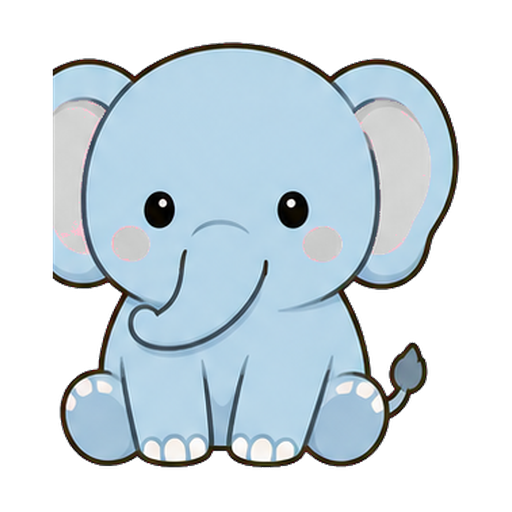
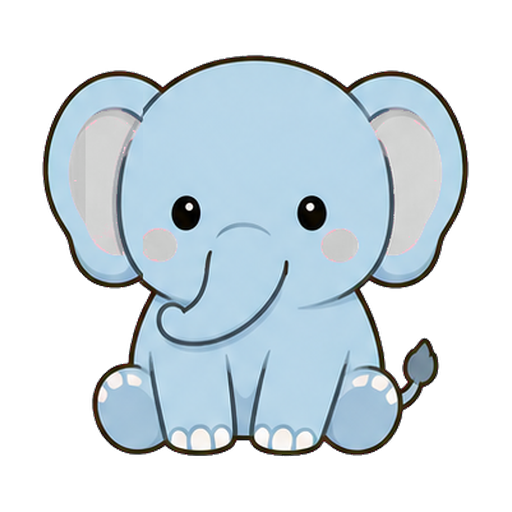
fix: rebuild the elephant's missing ear, and balance the relations layout
The elephant's left ear was cut off in the source art itself — its silhouette
ran dead straight down x=355 for every row of the ear band while the right ear
followed a curve. Padding could never fix that; the drawing was missing. The
body's true axis measured x=488 from the intact lower rows, so the right ear
mirrored across it restores the left. Silhouette distances now match to within
a pixel on every row.

Relations was left-heavy for three reasons, all fixed: the toolbar was not
width-capped like the list beneath it so the two disagreed about the page edge;
the filter and count stacked against the left with the right half empty; and
the card head bunched word and part-of-speech together. Each of those now
occupies its full row, and the synonym and antonym groups carry their counts.

Changed region(s): [[0.0625, 0.0625, 0.9375, 0.9375], [0.5625, 0.5938, 0.5938, 0.625]]

diff --git a/src/screens/RelationsScreen.tsx b/src/screens/RelationsScreen.tsx
@@ -19,6 +19,28 @@ function Chip({ word, tone }: { word: string; tone: 'syn' | 'ant' }) {
   );
 }
 
+// The label sits at one end of its row and the count at the other, so each
+// group announces its own size instead of leaving the line half empty.
+function Group({ label, tone, related }: { label: string; tone: 'syn' | 'ant'; related: string[] }) {
+  return (
+    <>
+      <View style={styles.groupHead}>
+        <Text style={styles.groupLabel}>{label}</Text>
+        <Text style={styles.groupCount}>{related.length}</Text>
+      </View>
+      {related.length ? (
+        <View style={styles.chips}>
+          {related.map((w) => (
+            <Chip key={`${tone}-${w}`} word={w} tone={tone} />
+          ))}
+        </View>
+      ) : (
+        <Text style={styles.none}>尚無{label}</Text>
+      )}
+    </>
+  );
+}
+
 export function RelationsScreen() {
   const [query, setQuery] = useState('');
   const [antonymsOnly, setAntonymsOnly] = useState(false);
@@ -48,13 +70,17 @@ export function RelationsScreen() {
           autoCorrect={false}
           style={styles.input}
         />
-        <Pressable
-          style={[styles.filter, antonymsOnly && styles.filterActive]}
-          onPress={() => setAntonymsOnly((v) => !v)}
-        >
-          <Text style={[styles.filterText, antonymsOnly && styles.filterTextActive]}>只看有反義詞</Text>
-        </Pressable>
-        <Text style={styles.count}>{rows.length} 個字</Text>
+        {/* Filter and count share one row at opposite ends, rather than
+            stacking against the left edge with the right half left empty. */}
+        <View style={styles.toolbarRow}>
+          <Pressable
+            style={[styles.filter, antonymsOnly && styles.filterActive]}
+            onPress={() => setAntonymsOnly((v) => !v)}
+          >
+            <Text style={[styles.filterText, antonymsOnly && styles.filterTextActive]}>只看有反義詞</Text>
+          </Pressable>
+          <Text style={styles.count}>{rows.length} 個字</Text>
+        </View>
       </View>
 
       <FlatList
@@ -71,27 +97,8 @@ export function RelationsScreen() {
             </Pressable>
             <Text style={styles.meaning}>{entry.meaning}</Text>
 
-            <Text style={styles.groupLabel}>近義詞</Text>
-            {rel.syn.length ? (
-              <View style={styles.chips}>
-                {rel.syn.map((w) => (
-                  <Chip key={`syn-${w}`} word={w} tone="syn" />
-                ))}
-              </View>
-            ) : (
-              <Text style={styles.none}>尚無近義詞</Text>
-            )}
-
-            <Text style={styles.groupLabel}>反義詞</Text>
-            {rel.ant.length ? (
-              <View style={styles.chips}>
-                {rel.ant.map((w) => (
-                  <Chip key={`ant-${w}`} word={w} tone="ant" />
-                ))}
-              </View>
-            ) : (
-              <Text style={styles.none}>尚無反義詞</Text>
-            )}
+            <Group label="近義詞" tone="syn" related={rel.syn} />
+            <Group label="反義詞" tone="ant" related={rel.ant} />
           </View>
         )}
       />
@@ -101,7 +108,10 @@ export function RelationsScreen() {
 
 const styles = StyleSheet.create({
   container: { flex: 1, backgroundColor: colors.page },
-  toolbar: { padding: 16, gap: 10 },
+  // Same width and alignment as the list below it, so the two do not disagree
+  // about where the page edge is.
+  toolbar: { ...centered, padding: 16, gap: 10 },
+  toolbarRow: { flexDirection: 'row', alignItems: 'center', justifyContent: 'space-between', gap: 12 },
   input: {
     backgroundColor: colors.surface,
     borderWidth: 1,
@@ -135,11 +145,30 @@ const styles = StyleSheet.create({
     borderColor: colors.line,
     padding: 18,
   },
-  head: { flexDirection: 'row', alignItems: 'baseline', gap: 8 },
+  // Word at one end, part of speech at the other, so the card head fills its
+  // width instead of bunching everything against the left.
+  head: { flexDirection: 'row', alignItems: 'baseline', justifyContent: 'space-between', gap: 8 },
   word: { color: colors.ink, fontSize: 22, fontWeight: '900' },
-  pos: { color: colors.muted, fontSize: 13, fontWeight: '800' },
+  pos: {
+    color: colors.blueInk,
+    backgroundColor: colors.blue,
+    fontSize: 12,
+    fontWeight: '900',
+    borderRadius: 9,
+    paddingHorizontal: 8,
+    paddingVertical: 3,
+    overflow: 'hidden',
+  },
   meaning: { color: colors.ink, fontSize: 15, fontWeight: '700', marginTop: 4 },
-  groupLabel: { color: colors.ink, fontWeight: '900', marginTop: 14, marginBottom: 8 },
+  groupHead: {
+    flexDirection: 'row',
+    alignItems: 'center',
+    justifyContent: 'space-between',
+    marginTop: 14,
+    marginBottom: 8,
+  },
+  groupLabel: { color: colors.ink, fontWeight: '900' },
+  groupCount: { color: colors.muted, fontWeight: '900', fontSize: 13 },
   none: { color: colors.muted, fontWeight: '700', fontSize: 13 },
   chips: { flexDirection: 'row', flexWrap: 'wrap', gap: 8 },
   chip: { borderRadius: 16, paddingHorizontal: 12, paddingVertical: 8 },
